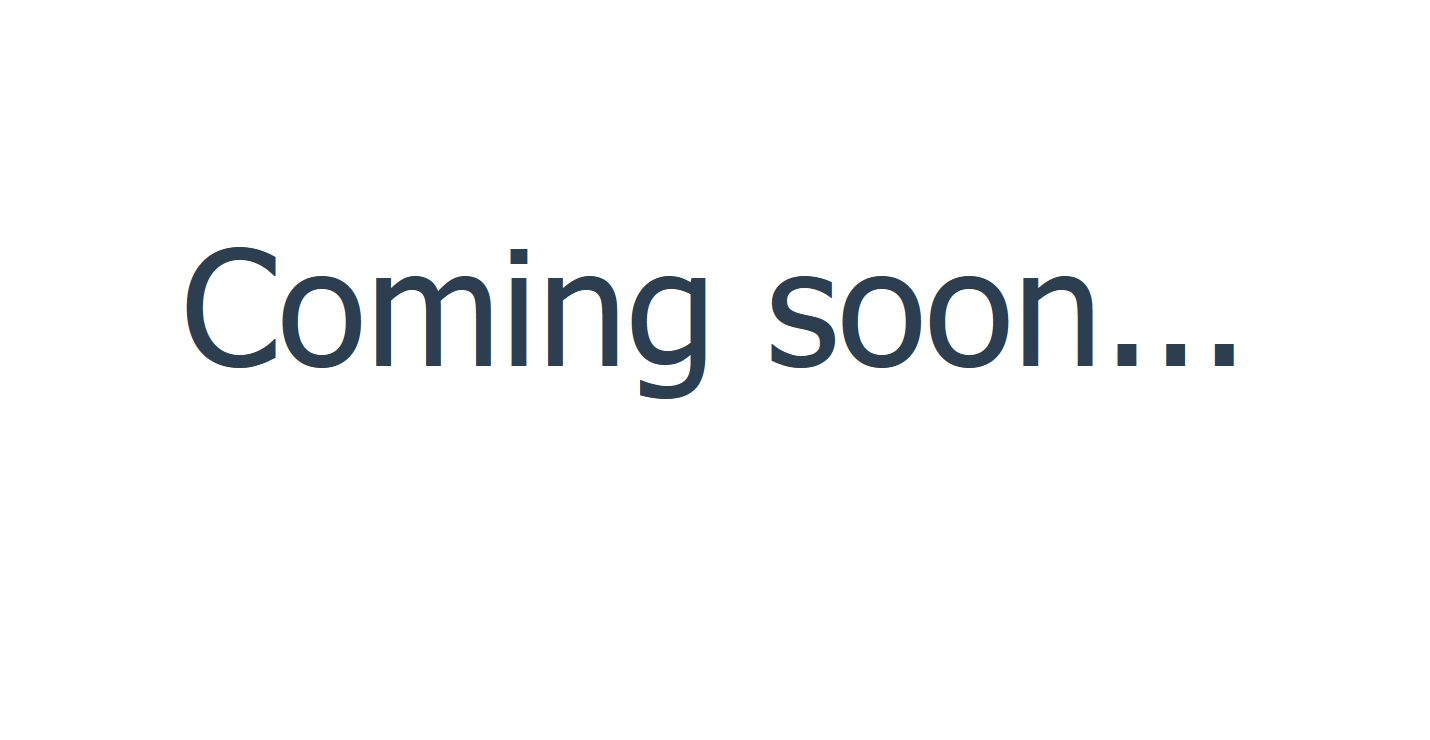
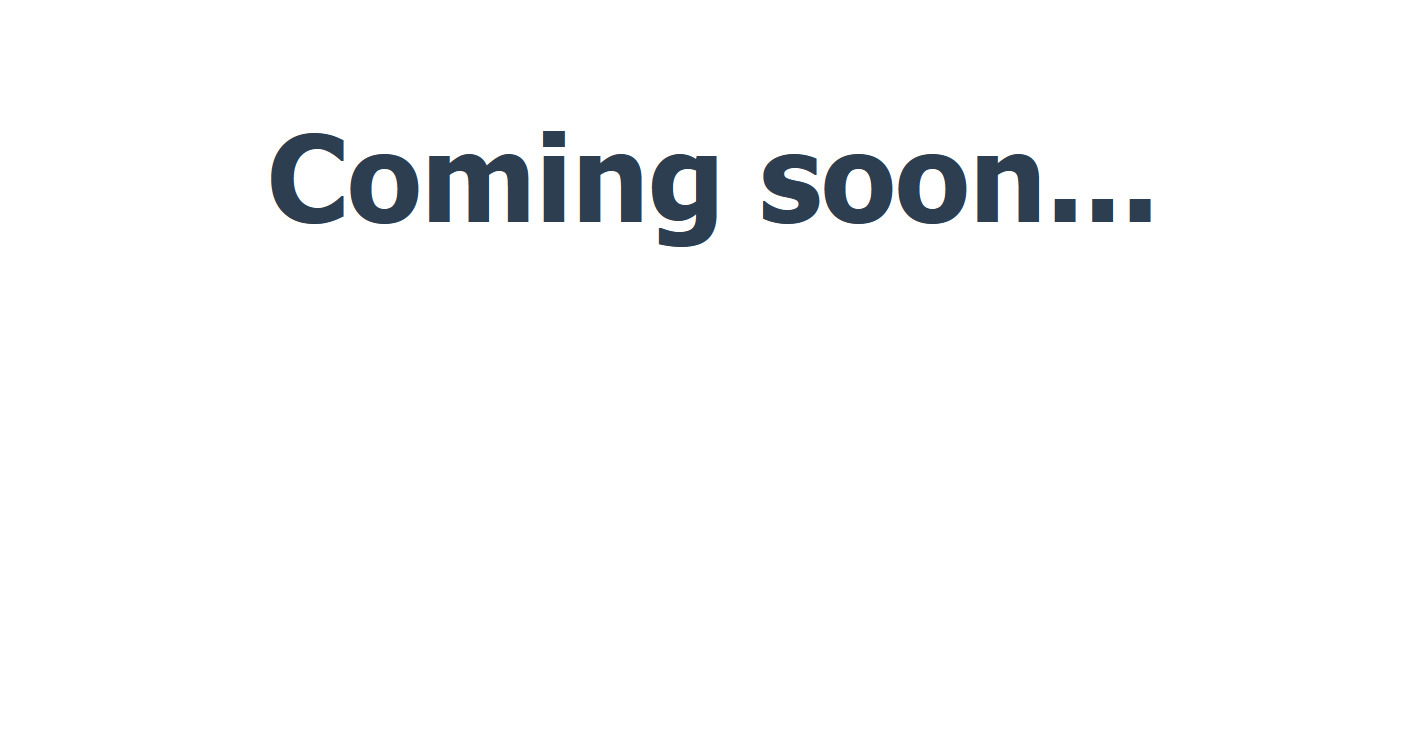
text stubs updated, list added

Changed region(s): [[0.1851, 0.1554, 0.8331, 0.3419], [0.1234, 0.3108, 0.4937, 0.5595], [0.5245, 0.373, 0.864, 0.4973]]

diff --git a/text-stub/index.html b/text-stub/index.html
@@ -5,9 +5,13 @@
 		<meta http-equiv="X-UA-Compatible" content="IE=edge">
 		<title>Coming soon...</title>
 		<meta name="viewport" content="width=device-width, initial-scale=1">
+		<link rel="shortcut icon" href="favicon.ico">
+		<!--[if lt IE 9]><script src="//cdn.jsdelivr.net/html5shiv/3.7.2/html5shiv-printshiv.min.js"></script><script src="//cdn.jsdelivr.net/respond/1.4.2/respond.min.js"></script><![endif]-->
 	</head>
 	<body>
 		<style>
+			a,abbr,acronym,address,applet,article,aside,audio,b,big,blockquote,body,canvas,caption,center,cite,code,dd,del,details,dfn,div,dl,dt,em,embed,fieldset,figcaption,figure,footer,form,h1,h2,h3,h4,h5,h6,header,hgroup,html,i,iframe,img,input,ins,kbd,label,legend,li,mark,main,menu,nav,object,ol,output,p,pre,q,ruby,s,samp,section,small,span,strike,strong,sub,summary,sup,table,tbody,td,tfoot,th,thead,time,tr,tt,u,ul,var,video{-webkit-box-sizing:border-box;-moz-box-sizing:border-box;box-sizing:border-box;margin:0;padding:0;border:0}article,aside,details,figcaption,figure,footer,header,hgroup,main,menu,nav,section{display:block}nav ol,nav ul{list-style:none}blockquote,q{quotes:none}blockquote:after,blockquote:before,q:after,q:before{content:"";content:none}table{border-spacing:0;border-collapse:collapse}button,input[type=submit]{cursor:pointer}
+
 			*::selection{
 				background: transparent;
 				color: #bdc3c7;
@@ -18,104 +22,141 @@
 			}
 			html, body{
 				width: 100%;
-				height: 100%;
+				min-height: 100%;
 				margin: 0;
 				padding: 0;
-				overflow: hidden;
 			}
-			.stub {
+			body{
+				background: #fff;
+			}
+			.project {
 				display: block;
-				position: relative;
 				width: 100%;
-				height: 100%;
-				background-color: #fff;
-			}
-			.stub__text {
-				position: absolute;
-				display: block;
-				width: 90%;
-				top: 30%;
-				left: 50%;
-				margin-left: -45%;
-				margin-top: 0;
+				max-width: 1200px;
+				min-height: 100%;
+				padding: 8% 0;
+				margin: 0 auto;
 				text-align: center;
+			}
+
+			.project-name {
+				display: block;
+				width: 100%;
+				margin-bottom: 4%;
+				text-align: center;
+			}
+			.project-name__title {
+				display: inline-block;
+				width: 100%;
+				margin: 0 auto;
+				padding: 0 2%;
 				font-family: Tahoma, Verdana, Arial, sans-serif;
-				/*font-family: Georgia, Times, "Times New Roman", serif;*/
-				font-size: 100px;
+				font-size: 200px;
 				line-height: 1;
 				color: #2c3e50;
-				font-weight: normal;
+			}
+
+			.project-pages{
+				display: inline-block;
+				list-style: square;
+				list-style-position: inside;
+				color: #2c3e50;
+				text-align: center;
+
+			}
+			.project-pages__item{
+				text-align: left;
+			}
+			.project-pages__item ul,
+			.project-pages__item ol{
+				margin-left: 20px;
+			}
+			.project-pages__link{
+				font-family: Georgia, Times, "Times New Roman", serif;
+				font-size: 25px;
+				line-height: 2;
+				color: #2c3e50;
+				outline: none;
+				-webkit-transition: all .5s;
+				   -moz-transition: all .5s;
+				    -ms-transition: all .5s;
+				     -o-transition: all .5s;
+				        transition: all .5s;
+			}
+			.project-pages__link_empty{
+				cursor: default;
+			}
+			.project-pages__link:hover{
+				color: #2c3e50;
 			}
 		</style>
 
-		<div class="stub">
-			<h1 id="fit" class="stub__text">Coming soon...</h1>
-		</div>
+		<main class="project">
+			<h1 class="project-name">
+				<span id="fit" class="project-name__title">Coming soon...</span>
+			</h1>
+
+			<!-- <ul class="project-pages">
+				<li class="project-pages__item">
+					<a href="home.html" class="project-pages__link">Home Page</a>
+				</li>
+			</ul> -->
+		</main>
 
 		<script>
-		/*!
-		* FitText.js 1.0 jQuery free version
-		*
-		* Copyright 2011, Dave Rupert http://daverupert.com
-		* Released under the WTFPL license
-		* http://sam.zoy.org/wtfpl/
-		* Modified by Slawomir Kolodziej http://slawekk.info
-		*
-		* Date: Tue Aug 09 2011 10:45:54 GMT+0200 (CEST)
-		*/
-		(function(){
-			var css = function (el, prop) {
-				return window.getComputedStyle ? getComputedStyle(el).getPropertyValue(prop) : el.currentStyle[prop];
-			};
-
-			var addEvent = function (el, type, fn) {
-				if (el.addEventListener)
-					el.addEventListener(type, fn, false);
-				else
-					el.attachEvent('on'+type, fn);
-			};
-
-			var extend = function(obj,ext){
-				for(key in ext)
-					if(ext.hasOwnProperty(key))
-						obj[key] = ext[key];
-				return obj;
-			};
-
-			window.fitText = function (el, kompressor, options) {
-
-				var settings = extend({
-					'minFontSize' : -1/0,
-					'maxFontSize' : 1/0
-				},options);
-
-				var fit = function (el) {
-					var compressor = kompressor || 1;
-
-					var resizer = function () {
-						el.style.fontSize = Math.max(Math.min(el.clientWidth / (compressor*10), parseFloat(settings.maxFontSize)), parseFloat(settings.minFontSize)) + 'px';
-					};
-
-					// Call once to set.
-					resizer();
-
-					// Bind events
-					// If you have any js library which support Events, replace this part
-					// and remove addEvent function (or use original jQuery version)
-					addEvent(window, 'resize', resizer);
+			/*!
+			* FitText.js 1.0 jQuery free version
+			*
+			* Copyright 2011, Dave Rupert http://daverupert.com
+			* Released under the WTFPL license
+			* http://sam.zoy.org/wtfpl/
+			* Modified by Slawomir Kolodziej http://slawekk.info
+			*
+			* Date: Tue Aug 09 2011 10:45:54 GMT+0200 (CEST)
+			*/
+			(function(){
+				var css = function (el, prop) {
+					return window.getComputedStyle ? getComputedStyle(el).getPropertyValue(prop) : el.currentStyle[prop];
 				};
-
-				if (el.length)
-					for(var i=0; i<el.length; i++)
-						fit(el[i]);
-				else
-					fit(el);
-
-				// return set of elements
-				return el;
-			};
-		})();
-		window.fitText( document.getElementById("fit"), 0.8 );
+				var addEvent = function (el, type, fn) {
+					if (el.addEventListener)
+						el.addEventListener(type, fn, false);
+					else
+						el.attachEvent('on'+type, fn);
+				};
+				var extend = function(obj,ext){
+					for(key in ext)
+						if(ext.hasOwnProperty(key))
+							obj[key] = ext[key];
+					return obj;
+				};
+				window.fitText = function (el, kompressor, options) {
+					var settings = extend({
+						'minFontSize' : -1/0,
+						'maxFontSize' : 1/0
+					},options);
+					var fit = function (el) {
+						var compressor = kompressor || 1;
+						var resizer = function () {
+							el.style.fontSize = Math.max(Math.min(el.clientWidth / (compressor*10), parseFloat(settings.maxFontSize)), parseFloat(settings.minFontSize)) + 'px';
+						};
+						// Call once to set.
+						resizer();
+						// Bind events
+						// If you have any js library which support Events, replace this part
+						// and remove addEvent function (or use original jQuery version)
+						addEvent(window, 'resize', resizer);
+					};
+					if (el.length)
+						for(var i=0; i<el.length; i++)
+							fit(el[i]);
+					else
+						fit(el);
+					// return set of elements
+					return el;
+				};
+			})();
+			window.fitText( document.getElementById("fit"), 1 );
 		</script>
 	</body>
 </html>

diff --git a/gradient-text-stub/index.html b/gradient-text-stub/index.html
@@ -6,54 +6,108 @@
 		<title>Coming soon...</title>
 		<meta name="viewport" content="width=device-width, initial-scale=1">
 		<link rel="shortcut icon" href="favicon.ico">
+		<!--[if lt IE 9]><script src="//cdn.jsdelivr.net/html5shiv/3.7.2/html5shiv-printshiv.min.js"></script><script src="//cdn.jsdelivr.net/respond/1.4.2/respond.min.js"></script><![endif]-->
 	</head>
 	<body>
 		<style>
+			a,abbr,acronym,address,applet,article,aside,audio,b,big,blockquote,body,canvas,caption,center,cite,code,dd,del,details,dfn,div,dl,dt,em,embed,fieldset,figcaption,figure,footer,form,h1,h2,h3,h4,h5,h6,header,hgroup,html,i,iframe,img,input,ins,kbd,label,legend,li,mark,main,menu,nav,object,ol,output,p,pre,q,ruby,s,samp,section,small,span,strike,strong,sub,summary,sup,table,tbody,td,tfoot,th,thead,time,tr,tt,u,ul,var,video{-webkit-box-sizing:border-box;-moz-box-sizing:border-box;box-sizing:border-box;margin:0;padding:0;border:0}article,aside,details,figcaption,figure,footer,header,hgroup,main,menu,nav,section{display:block}nav ol,nav ul{list-style:none}blockquote,q{quotes:none}blockquote:after,blockquote:before,q:after,q:before{content:"";content:none}table{border-spacing:0;border-collapse:collapse}button,input[type=submit]{cursor:pointer}
+
 			*::selection{
-				background: #fff;
-				color: #f1c40f;
+				background: transparent;
+				color: #333;
 			}
 			*::-moz-selection{
-				background: #fff;
-				color: #f1c40f;
+				background: transparent;
+				color: #333;
 			}
 			html, body{
 				width: 100%;
-				height: 100%;
+				min-height: 100%;
 				margin: 0;
 				padding: 0;
-				overflow: hidden;
 			}
-			.stub {
-				display: block;
-				position: relative;
-				width: 100%;
-				height: 100%;
+			body{
 				background: #ffa500;
 				background: -webkit-linear-gradient(170deg, #f1c40f, #ffa500);
-				background: -moz-linear-gradient(170deg, #f1c40f, #ffa500);
-				background: -o-linear-gradient(170deg, #f1c40f, #ffa500);
-				background: linear-gradient(170deg, #f1c40f, #ffa500);
+				   background: -moz-linear-gradient(170deg, #f1c40f, #ffa500);
+				     background: -o-linear-gradient(170deg, #f1c40f, #ffa500);
+				        background: linear-gradient(170deg, #f1c40f, #ffa500);
+				background-attachment: fixed;
 			}
-			.stub__text {
-				position: absolute;
+			.project {
 				display: block;
-				width: 90%;
-				top: 30%;
-				left: 50%;
-				margin-left: -45%;
-				margin-top: 0;
+				width: 100%;
+				max-width: 1200px;
+				min-height: 100%;
+				padding: 8% 0;
+				margin: 0 auto;
 				text-align: center;
+			}
+
+			.project-name {
+				display: block;
+				width: 100%;
+				margin-bottom: 4%;
+				text-align: center;
+			}
+			.project-name__title {
+				display: inline-block;
+				width: 100%;
+				margin: 0 auto;
+				padding: 0 2%;
 				font-family: Tahoma, Verdana, Arial, sans-serif;
-				font-size: 150px;
+				font-size: 200px;
 				line-height: 1;
 				color: #fff;
-				font-weight: normal;
+			}
+
+			.project-pages{
+				display: inline-block;
+				list-style: square;
+				list-style-position: inside;
+				color: #fff;
+				text-align: center;
+
+			}
+			.project-pages__item{
+				text-align: left;
+			}
+			.project-pages__item ul,
+			.project-pages__item ol{
+				margin-left: 20px;
+			}
+			.project-pages__link{
+				font-family: Georgia, Times, "Times New Roman", serif;
+				font-size: 25px;
+				line-height: 2;
+				color: #fff;
+				outline: none;
+				-webkit-transition: all .5s;
+				   -moz-transition: all .5s;
+				    -ms-transition: all .5s;
+				     -o-transition: all .5s;
+				        transition: all .5s;
+			}
+			.project-pages__link_empty{
+				cursor: default;
+			}
+			.project-pages__link:hover{
+				color: #ddd;
 			}
 		</style>
-		<div class="stub">
-			<h1 class="stub__text">Coming soon...</h1>
-		</div>
+
+		<main class="project">
+			<h1 class="project-name">
+				<span id="fit" class="project-name__title">Coming soon...</span>
+			</h1>
+
+			<!-- <ul class="project-pages">
+				<li class="project-pages__item">
+					<a href="home.html" class="project-pages__link">Home Page</a>
+				</li>
+			</ul> -->
+		</main>
+
 		<script>
 			/*!
 			* FitText.js 1.0 jQuery free version
@@ -107,7 +161,7 @@
 					return el;
 				};
 			})();
-			window.fitText( document.getElementById("fit"), 0.8 );
+			window.fitText( document.getElementById("fit"), 1 );
 		</script>
 	</body>
 </html>
